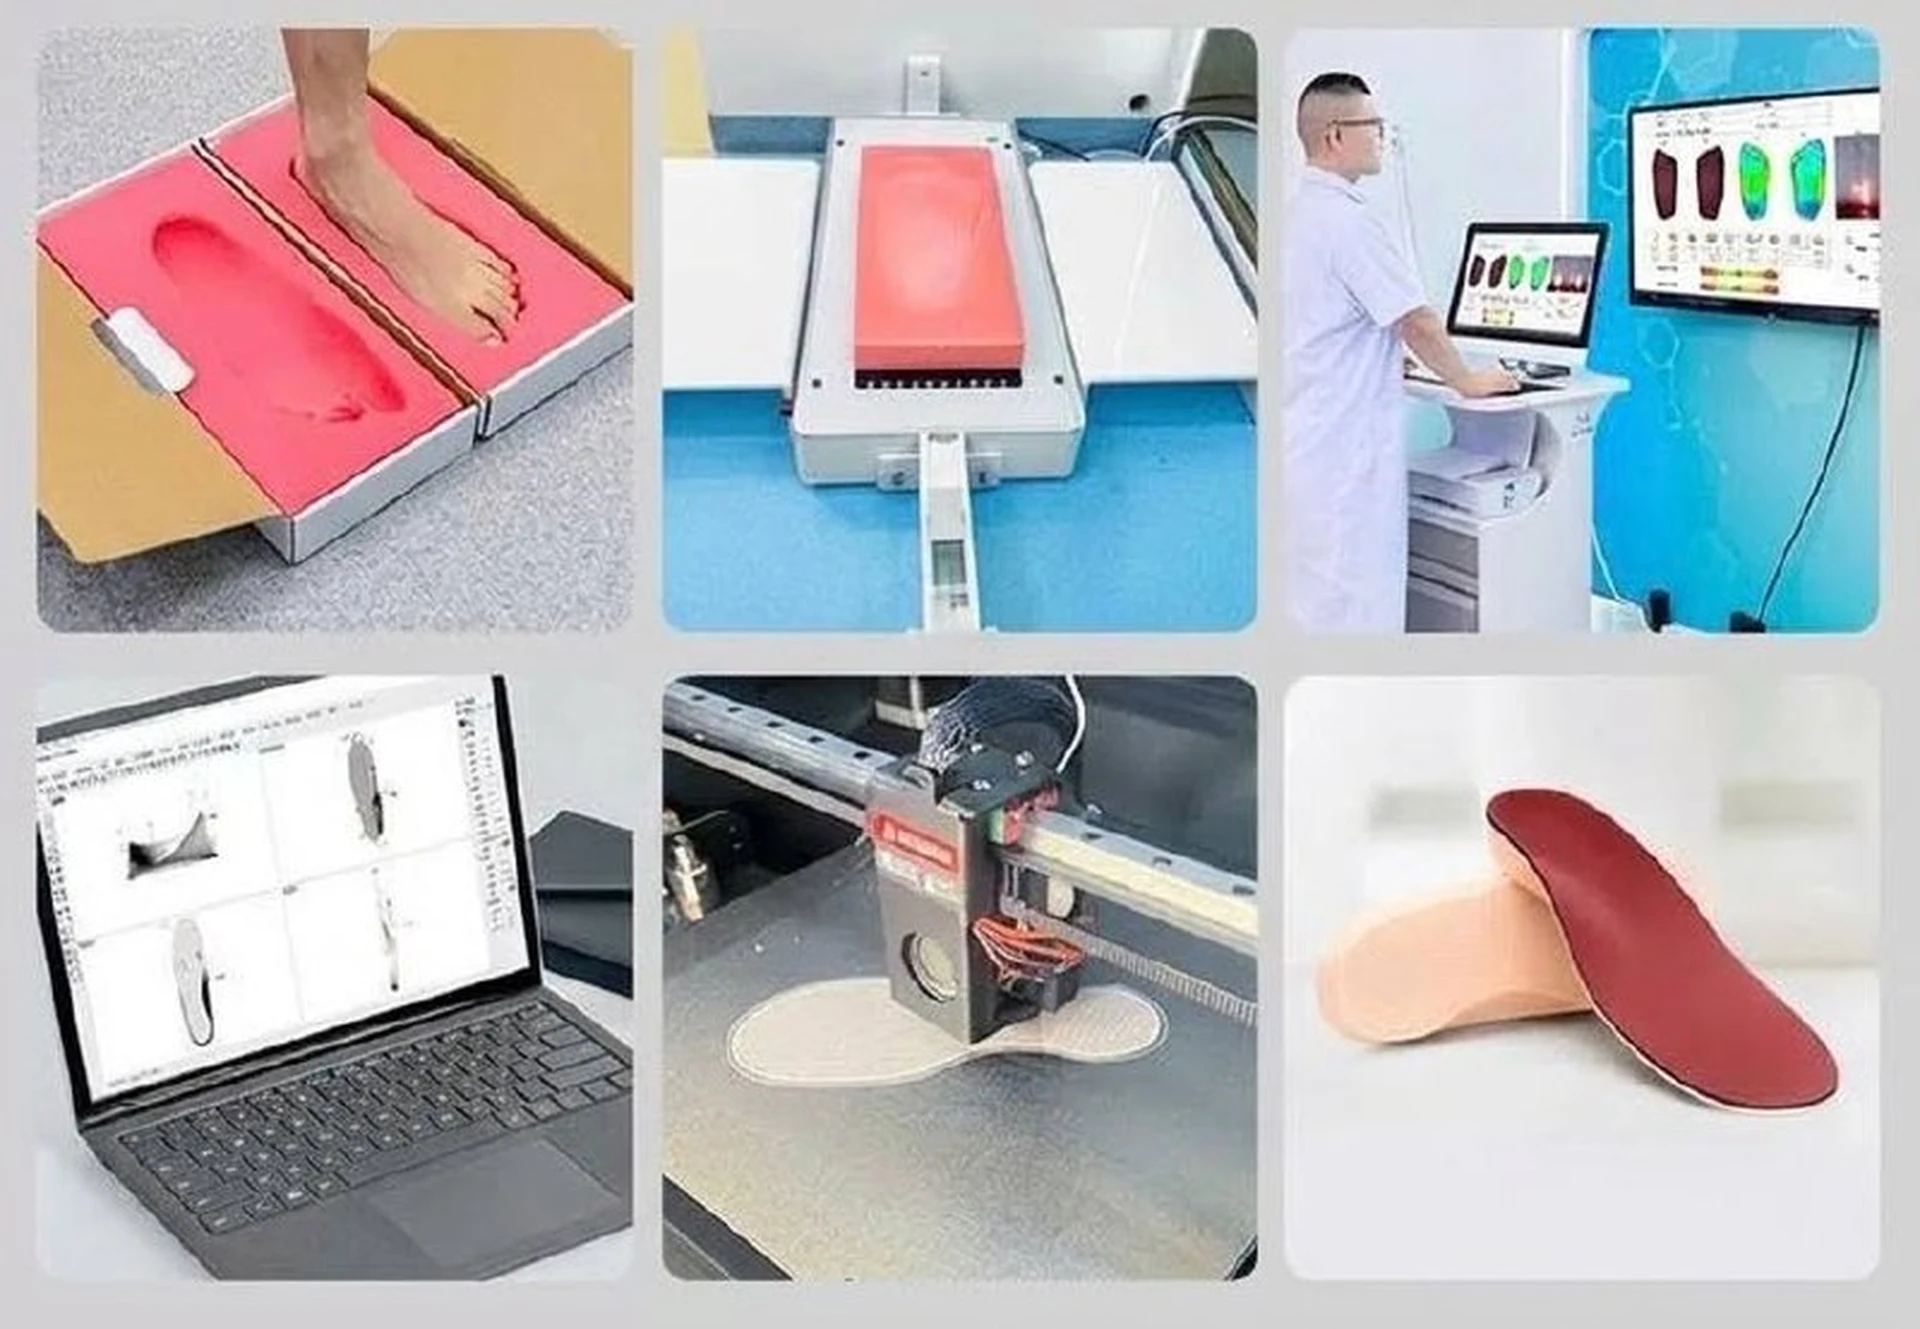
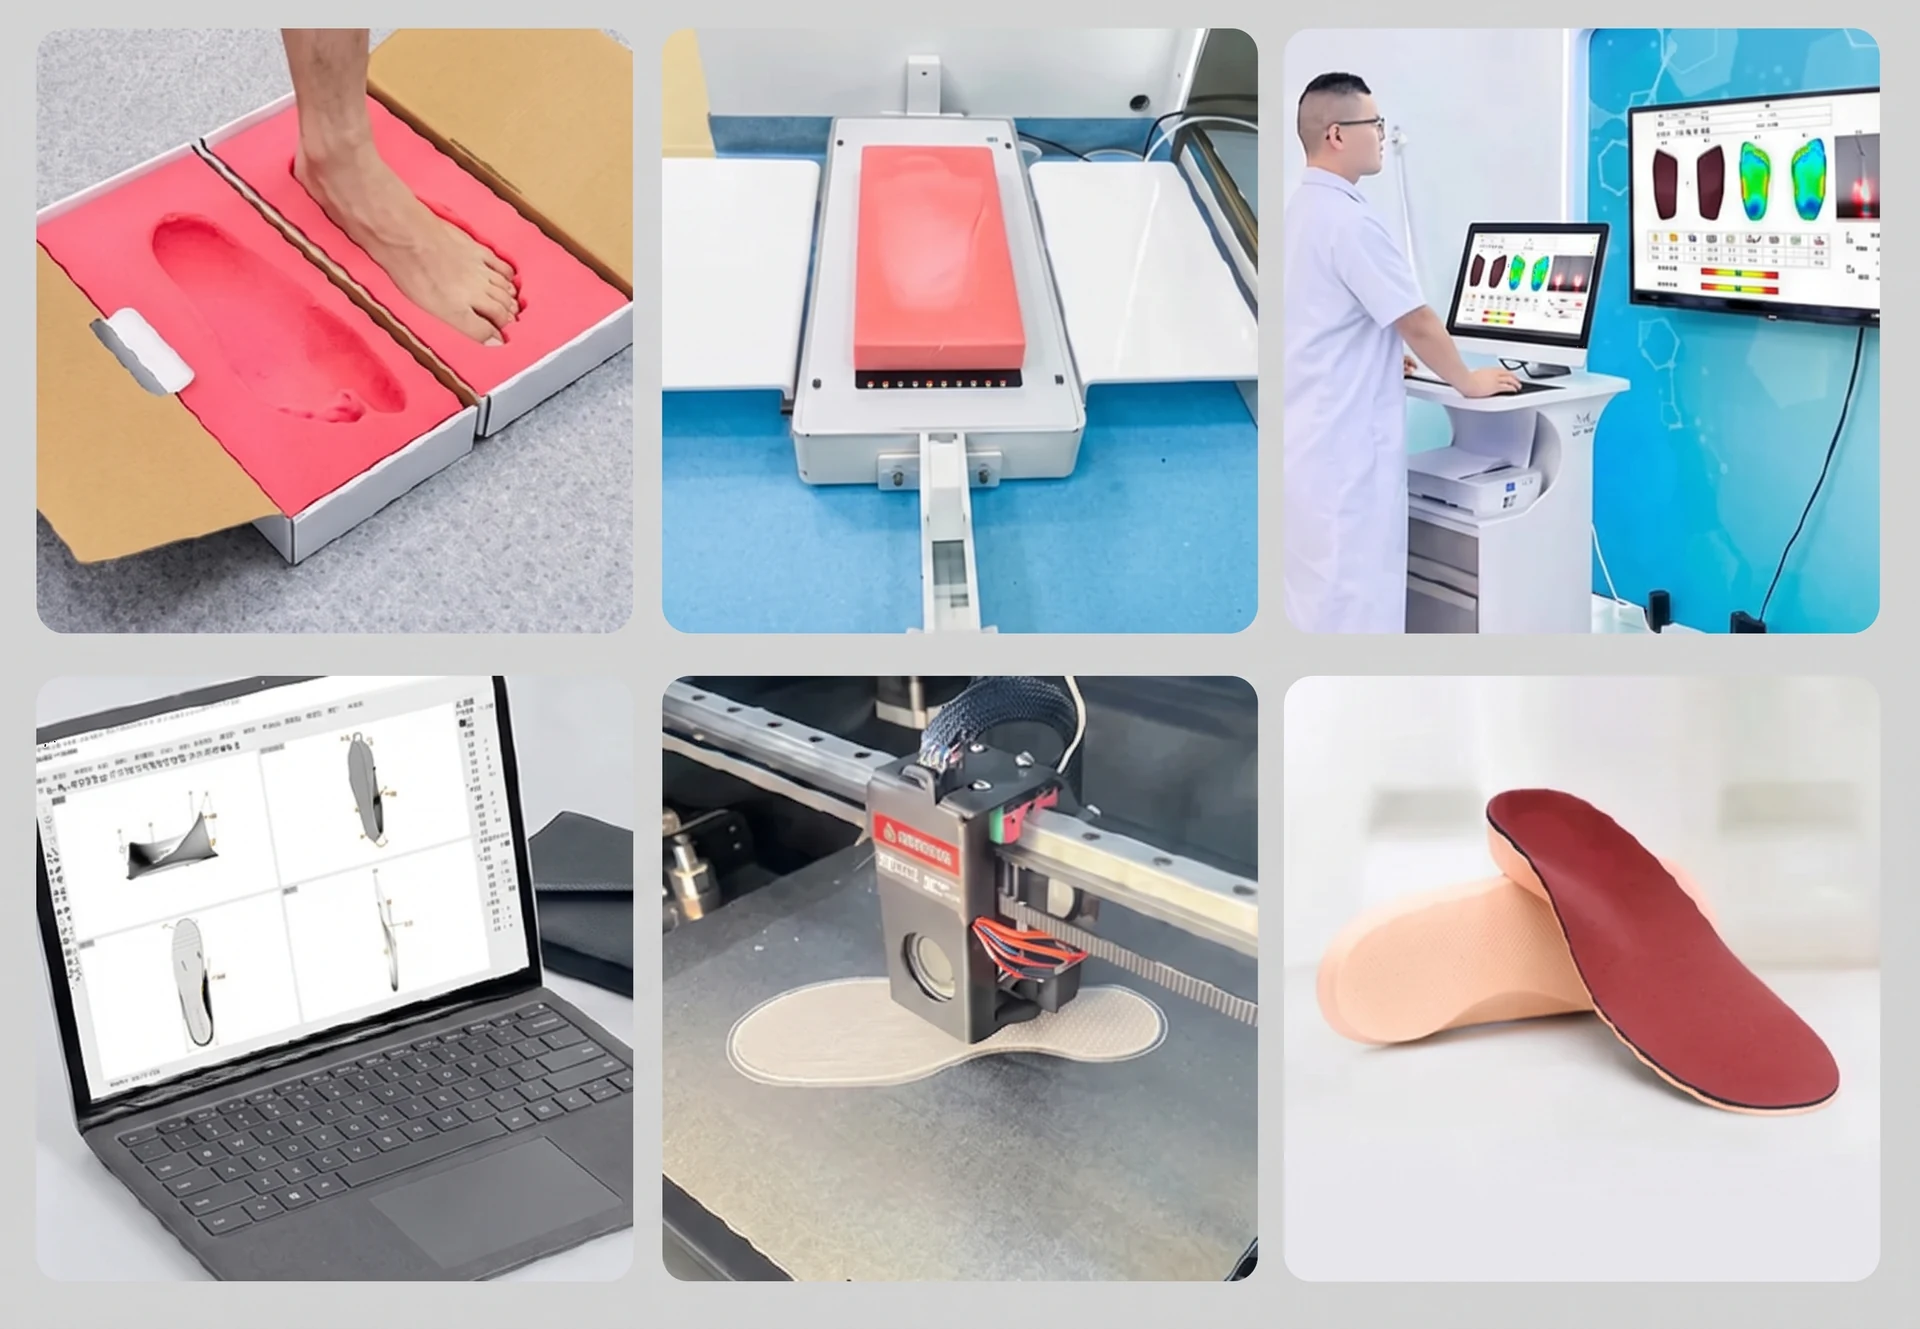
Process image: replace with true 2496x1728 source (no upscaling)
The previous 'HD' set was upscaled from an 800x554 source, so it was
interpolated and soft. This swaps in the real 2496x1728 upload.

- All widths now downscaled from native 2496px, never upscaled
- Added a 2496w step; dropped the fake 2560w files
- quality raised (webp 88 method 6, jpeg 90 4:4:4) for clean edges
- removed image-rendering: crisp-edges, which caused aliasing on photos;
  smooth downscaling is correct for photographic content
- locked aspect-ratio 2496/1728 so the box never distorts while loading
- width/height attrs corrected to 2496x1728 (stops layout shift)
- cache-bust to v35

diff --git a/index.html b/index.html
@@ -23,7 +23,7 @@
 <link href="https://fonts.googleapis.com/css2?family=Playfair+Display:ital,wght@0,400;0,600;0,700;1,400&family=Source+Sans+3:wght@400;500;600&display=swap" rel="stylesheet">
 <link rel="icon" href="assets/favicon.svg" type="image/svg+xml">
 <link rel="apple-touch-icon" href="assets/favicon.svg">
-<link rel="stylesheet" href="css/style.css?v=34">
+<link rel="stylesheet" href="css/style.css?v=35">
 </head>
 <body class="is-loading">
 
@@ -327,15 +327,15 @@
           srcset="assets/process-workflow-380.webp 380w, assets/process-workflow-560.webp 560w"
           sizes="92vw" type="image/webp">
         <source
-          srcset="assets/process-workflow-380.webp 380w, assets/process-workflow-560.webp 560w, assets/process-workflow-760.webp 760w, assets/process-workflow-1024.webp 1024w, assets/process-workflow-1440.webp 1440w, assets/process-workflow-1920.webp 1920w, assets/process-workflow-2560.webp 2560w"
-          sizes="(max-width: 900px) 92vw, 1100px" type="image/webp">
+          srcset="assets/process-workflow-380.webp 380w, assets/process-workflow-560.webp 560w, assets/process-workflow-760.webp 760w, assets/process-workflow-1024.webp 1024w, assets/process-workflow-1440.webp 1440w, assets/process-workflow-1920.webp 1920w, assets/process-workflow-2496.webp 2496w"
+          sizes="(max-width: 900px) 92vw, min(1100px, 92vw)" type="image/webp">
         <img
           src="assets/process-workflow-760.jpg"
-          srcset="assets/process-workflow-380.jpg 380w, assets/process-workflow-560.jpg 560w, assets/process-workflow-760.jpg 760w, assets/process-workflow-1024.jpg 1024w, assets/process-workflow-1440.jpg 1440w, assets/process-workflow-1920.jpg 1920w, assets/process-workflow-2560.jpg 2560w"
-          sizes="(max-width: 900px) 92vw, 1100px"
-          alt="Enam langkah proses InsoLab — dari acuan kaki, imbasan tekanan, reka bentuk CAD, pengilangan CNC, hingga insole siap"
+          srcset="assets/process-workflow-380.jpg 380w, assets/process-workflow-560.jpg 560w, assets/process-workflow-760.jpg 760w, assets/process-workflow-1024.jpg 1024w, assets/process-workflow-1440.jpg 1440w, assets/process-workflow-1920.jpg 1920w, assets/process-workflow-2496.jpg 2496w"
+          sizes="(max-width: 900px) 92vw, min(1100px, 92vw)"
+          alt="Enam langkah proses InsoLab — acuan kaki, analisis tekanan, reka bentuk CAD, pengilangan CNC, hingga insole siap"
           class="process-figure-img"
-          width="800" height="554"
+          width="2496" height="1728"
           loading="lazy" decoding="async">
       </picture>
       <figcaption>Daripada acuan kaki hingga insole siap — semua di bengkel kami.</figcaption>
@@ -957,7 +957,7 @@
 <script src="lib/lenis.min.js"></script>
 <script src="lib/gsap.min.js"></script>
 <script src="lib/ScrollTrigger.min.js"></script>
-<script src="js/main.js?v=34"></script>
+<script src="js/main.js?v=35"></script>
 
 </body>
 </html>

diff --git a/css/style.css b/css/style.css
@@ -806,13 +806,13 @@ html.hdr-stuck .nav { padding-block: 0.85rem; }
 .process-figure-img {
   display: block;
   width: 100%;
+  max-width: 100%;
   height: auto;
+  aspect-ratio: 2496 / 1728;
   border-radius: var(--radius-lg);
   border: 1px solid var(--line);
   background: var(--surface);
   box-shadow: 0 20px 50px -30px rgba(11, 61, 145, 0.22);
-  image-rendering: -webkit-optimize-contrast;
-  image-rendering: crisp-edges;
 }
 .process-figure figcaption {
   margin-top: var(--s-2);
